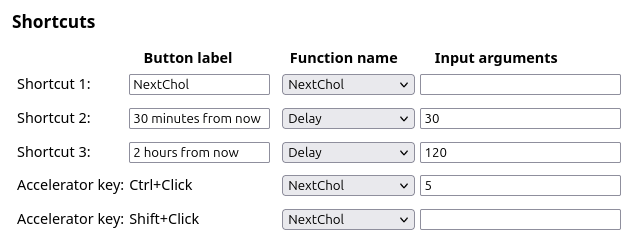
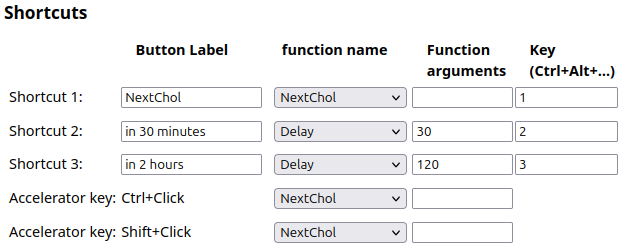
Shortcut bindings can be changed

diff --git a/index.md b/index.md
@@ -479,7 +479,7 @@ different arguments to the dynamic function, thereby enabling you to reuse a
 single function for multiple shortcuts.
 
 The shortcuts can be accessed from within a message composition window using the
-keyboard commands `Ctrl+Alt+1`, `Ctrl+Alt+2`, and`Ctrl+Alt+3`, or from within
+keyboard commands `Ctrl+Alt+1`, `Ctrl+Alt+2`, and `Ctrl+Alt+3` (these bindings can be changed, as described below), or from within
 the scheduler popup dialog using `Ctrl+1`, `Ctrl+2`, and `Ctrl+3`.
 
 ![Send Later shortcut preferences](assets/v10-shortcut-options.png)
@@ -492,11 +492,20 @@ the scheduler popup dialog using `Ctrl+1`, `Ctrl+2`, and `Ctrl+3`.
     `Alt+Shift+B` (`Ctrl+Option+B` on Mac). Note: this assumes that nothing else
     in the dialog is bound to Alt+Shift+B, which may not be the case depending on
     your language settings.
--   **Function name** Specifies which [dynamic function](#dynamic) will be
+-   **function name** Specifies which [dynamic function](#dynamic) will be
     attached to this shortcut button.
--   **Input arguments** Arguments that will be passed to the dynamic function
+-   **Function arguments** Arguments that will be passed to the dynamic function
     that may modify its behavior. See the section on
     [dynamic functions](#dynamic) for details on what these arguments can do.
+-   **Key (Ctrl+Alt+…)** Specifies the key binding in the compose
+    window to activate the shortcut directly without opening the
+    pop-up. By default the shortcuts are bound to Ctrl-Alt-1, -2, and
+    -3, but if you don't like those or if they conflict with another
+    extension you use, you can change them. The valid keys you can
+    specify here, case-sensitive, are A-Z, 0-9, F1-F12, Comma, Period,
+    Home, End, PageUp, PageDown, Space, Insert, Delete, Up, Down,
+    Left, and Right. You can't bind the same key to two different
+    shortcuts.
 -   **Accelerator key: Ctrl+Click** allows you to specify what happens
     when you click on the Send Later button in the compose window
     while holding down the Ctrl key.
